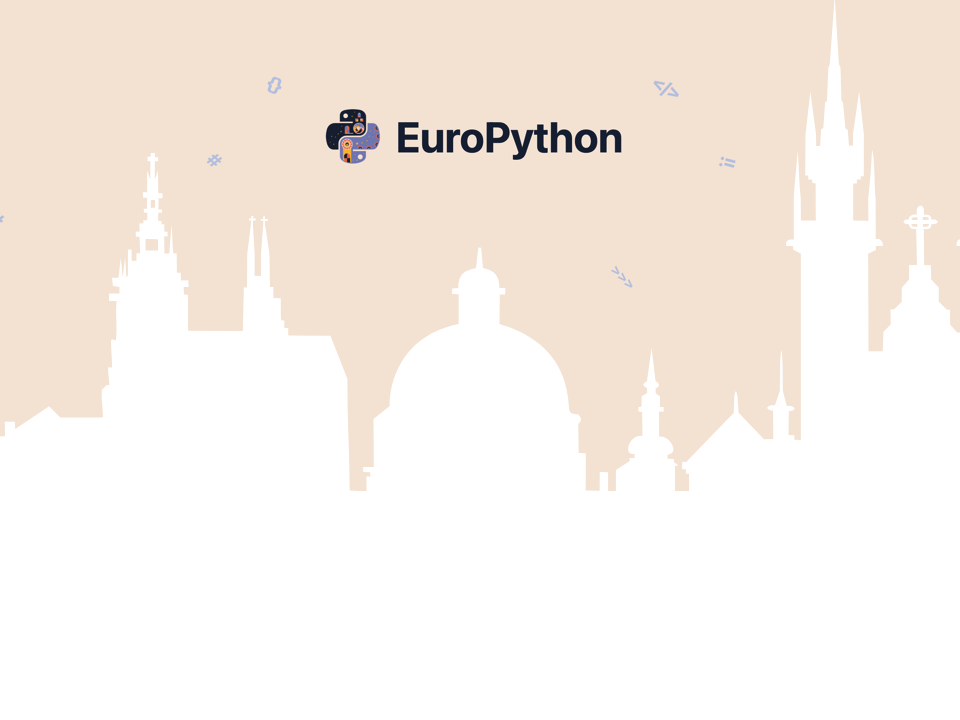
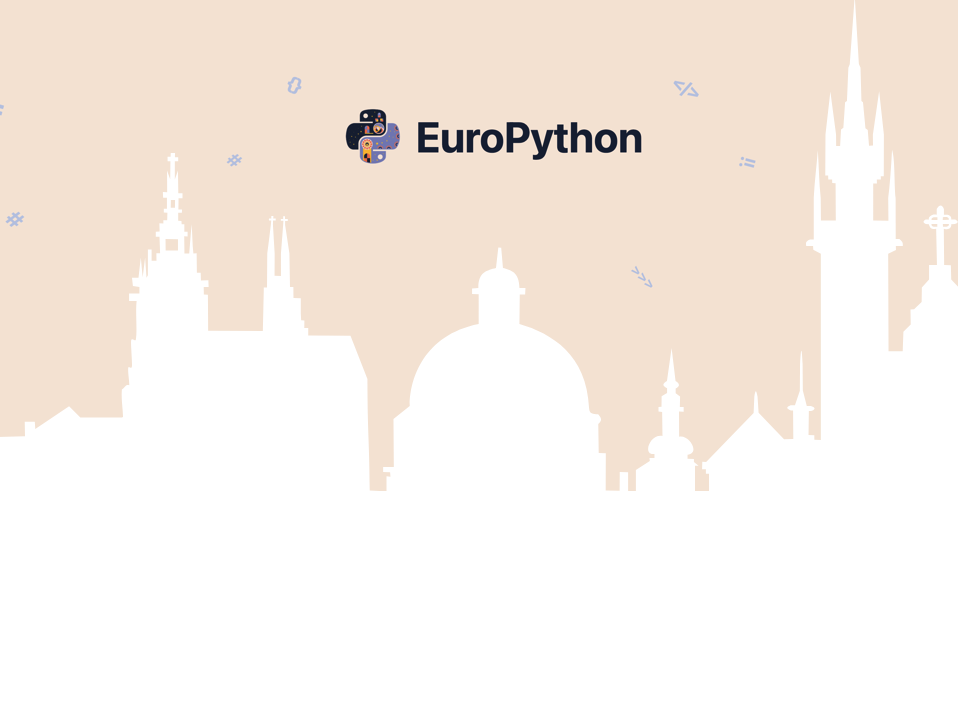
all resolutions

diff --git a/style/style_background.scss b/style/style_background.scss
@@ -22,7 +22,7 @@ $main-color: #ffffff;
 
 .custom-title {
   .slide-background-content {
-      background-image: url("https://github.com/sebastiandres/workshop_better_presentations/blob/main/style/custom_title_16x9.png?raw=true") !important;
+      background-image: url("https://github.com/sebastiandres/workshop_better_presentations/blob/main/style/custom_title_8x5.png?raw=true") !important;
       background-position: center !important;
       background-size: contain !important;
       opacity: 1.00 !important;
@@ -33,7 +33,7 @@ $main-color: #ffffff;
 
 .custom-section {
   .slide-background-content {
-    background-image: url("https://github.com/sebastiandres/workshop_better_presentations/blob/main/style/custom_section_16x9.png?raw=true") !important;
+    background-image: url("https://github.com/sebastiandres/workshop_better_presentations/blob/main/style/custom_section_8x5.png?raw=true") !important;
     background-position: left !important;
     background-size: contain !important;
     opacity: 0.50 !important;
@@ -44,7 +44,7 @@ $main-color: #ffffff;
 
 .custom-slide {
   .slide-background-content {
-    background-image: url("https://github.com/sebastiandres/workshop_better_presentations/blob/main/style/custom_slide_16x9.png?raw=true") !important;
+    background-image: url("https://github.com/sebastiandres/workshop_better_presentations/blob/main/style/custom_slide_8x5.png?raw=true") !important;
     background-position: left !important;
     background-size: contain !important;
     opacity: 0.30 !important;
@@ -55,7 +55,7 @@ $main-color: #ffffff;
 
 .questions-slide {
   .slide-background-content {
-    background-image: url("https://github.com/sebastiandres/workshop_better_presentations/blob/main/style/questions_slide_16x9.png?raw=true") !important;
+    background-image: url("https://github.com/sebastiandres/workshop_better_presentations/blob/main/style/questions_slide_8x5.png?raw=true") !important;
     background-position: left !important;
     background-size: contain !important;
     opacity: 0.30 !important;
